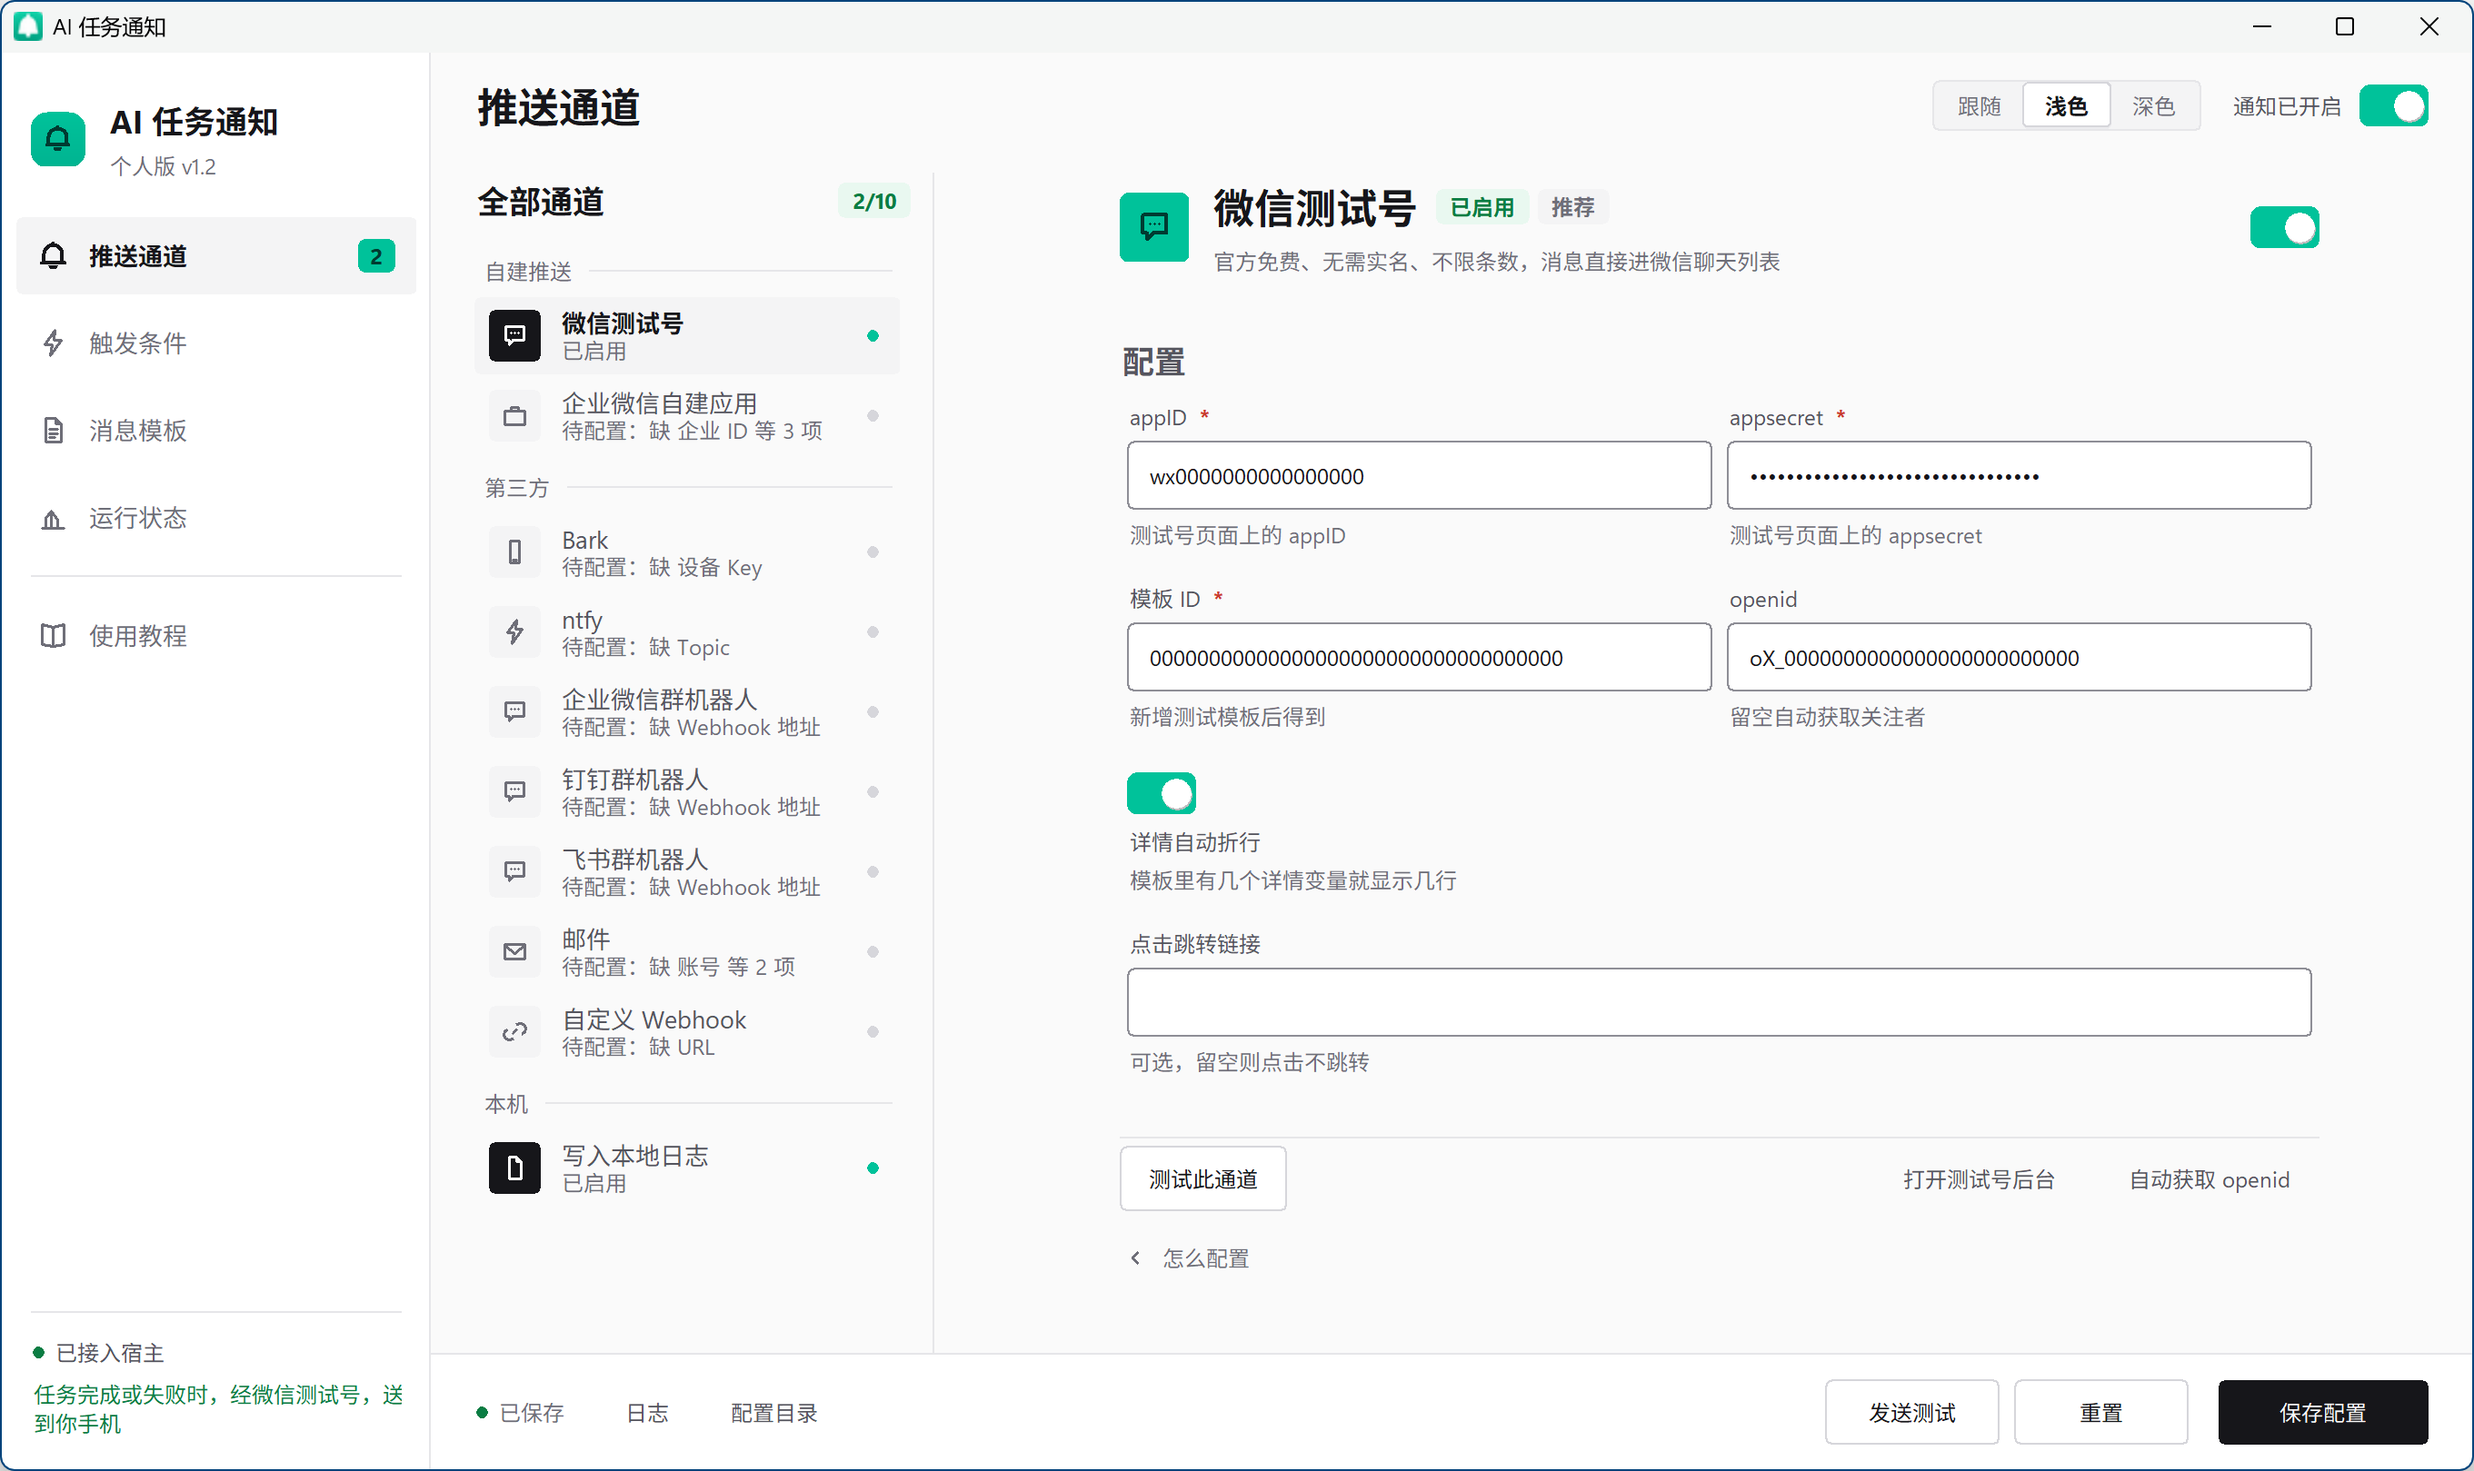
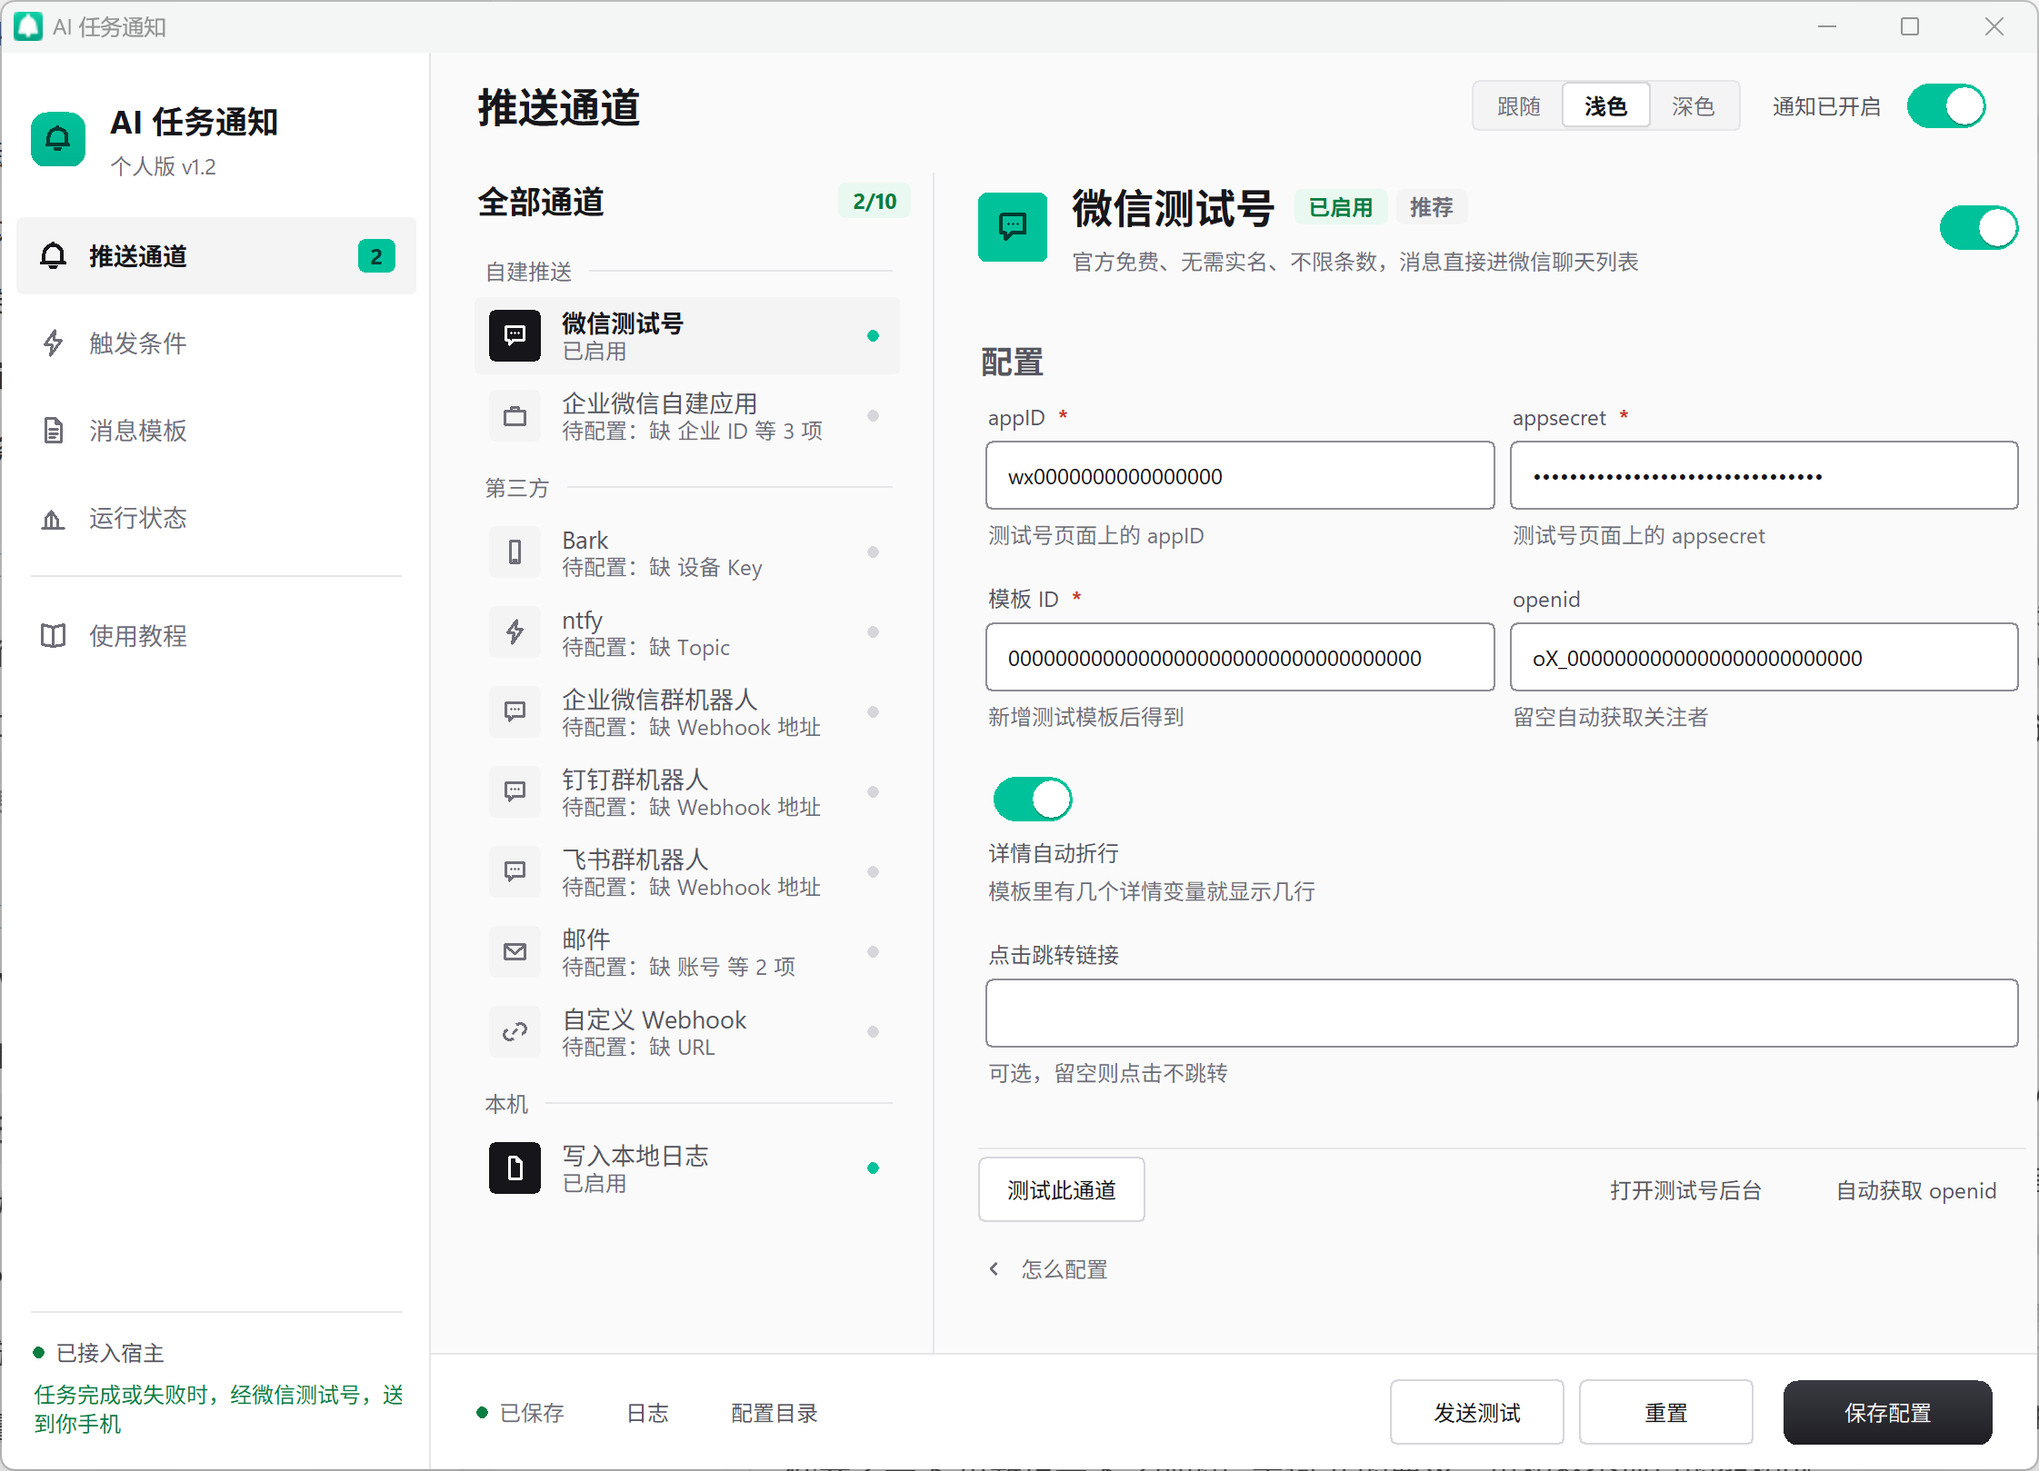
docs: 补 <Configure> 自激的实测与启动耗时构成；开关选型写进 3.3
- perf.md 新增 4.4（自激闭环 + 两处修法 + 75× 数据）、
  第六节（启动时间轴逐段、import ui 内部构成、为什么别的应用更快、优化方向表）
- design-redesign.md 新增 3.3（为什么 round_rect 画不出半圆、四家设计体系的
  开关比例对照、选 Tailwind 44×24 的理由、三处配套改动）
- 交互表 / 动效表 / 组件表同步为 160ms ease_out_expo
- 重出 4 张含开关的截图（triggers / channels × 浅深）

diff --git a/docs/design-redesign.md b/docs/design-redesign.md
@@ -57,7 +57,7 @@
 | 组件 | v1 | v2 |
 |---|---|---|
 | Button | 平面圆角 + hover 只变色 | 3 变体 × 4 态 + loading；primary hover 出现自上而下渐变（≤36px 高）；按下整体下移 1px |
-| Switch | 圆角矩形 + 圆形滑块，颜色写死两档 | 轨道色 `mix()` 插值 + 滑块位移 90ms `ease_out_cubic`；深色下轨道补 1px 内描边 |
+| Switch | 圆角矩形 + 圆形滑块，颜色写死两档 | 44×24 真半圆胶囊（`capsule_border`）+ 轨道色 `mix()` 插值 + 滑块 160ms `ease_out_expo`；关态轨道 `track_off` + `border_control` 描边 |
 | 输入框 | 只有聚焦/不聚焦两态 | 三态：默认（`border_control`）/ 聚焦（`border_focus` + 2px 焦点环）/ 错误（`danger` + 一行红字说明） |
 
 **结论：过。**
@@ -181,7 +181,7 @@ v2 把绿收窄到三种语义，别处一律中性色：
 |---|---|---|---|
 | `Button` | 3 变体（primary/secondary/ghost），hover 只变色 | 4 变体（+danger），4 态 + loading | primary hover 渐变；按下 `dy=S(1)`；高度硬限制 `h <= DIM.BTN_H` |
 | `Field` | 2 态 | 3 态 + `set_error()/clear_error()` | 默认态用 `border_control`（3.11:1）而不是 `border`；错误态带一行说明 |
-| `Switch` | 颜色写死两档 | 轨道 `mix()` 插值 + 滑块位移 | 深色补 1px 内描边；时长 `MOTION.quick` |
+| `Switch` | 颜色写死两档，形状是 `round_rect(r=h/2)` 磨出来的切角矩形 | 44×24 胶囊：`create_oval` 真半圆 + 矩形拼合；滑块 20px、行程 20px | 关态轨道 `track_off`（`#d4d4d9`/`#3d3d46`）+ `border_control` 描边；`MOTION.base` + `ease_out_expo`；画布四周留 4px 装焦点环 |
 | `Segmented` | 独立实现 | 与 Button 同一套描边/圆角 | 选中胶囊 = `bg_subtle` + 加粗 |
 | `NavItem` | 文字 + 左侧 2px 指示条 | 16px 图标 + 文字 + 浅底胶囊 | **删掉指示条**（1.3 要求）；行高 44 |
 | `ListRow` | 46px，带指示条 | 44px，徽章用 `ICON_BOX` | 选中靠浅底 + 文字转粗 |
@@ -204,9 +204,48 @@ v2 把绿收窄到三种语义，别处一律中性色：
 | `divider()` | 纯 Frame 的 1px 线 | 不用 Canvas（省一个 Tk 对象） |
 | `measure()` | 字体测量 | 带 `(font, text)` 缓存，上限 8192 条 |
 | `elide()` | 超宽省略 | 先测全长，超宽才二分 |
+| `capsule()` / `capsule_border()` | 真半圆胶囊（实心 / 带描边） | 只在 `r = 高度/2` 时用；`fill=""` 不许用 `capsule_border` |
+| `capsule_ring()` | 空心胶囊描边 | 焦点环专用，用 `create_arc` 半圆而不是整圆 |
 
 渐变面积闸门写成会抛错的硬限制，而不是一句「请注意不要滥用」——
 违规的写法在开发期就炸，活不到用户面前。
+
+### 3.3 开关：为什么必须换绘制方式
+
+上一版开关被评价为「方块样式」，根因不是配色，是**几何**。
+
+`round_rect()` 用 `create_polygon(..., smooth=True)` 画圆角。`smooth=True` 的
+原理是把折点按贝塞尔曲线磨圆，**顶点始终落在原矩形的边上**。当 `r = 高度/2`
+（胶囊的充要条件）时，磨出来的不是半圆，是一个「四角被斜切的矩形」——
+在小尺寸（38×22）上，斜切占比极大，看上去就是个方块。
+
+Tk 没有原生圆角，所以胶囊只能拼：**中间一个矩形 + 两端各一个整圆，圆被矩形
+盖住一半**。三段都用 `fill` 当 `outline` 描一圈，相邻图元之间才不会露 1px 底色缝。
+
+选型参考（都是同一形态，差别只在比例与描边）：
+
+| 设计体系 | 尺寸 | 比例 | 滑块 | 关态处理 |
+|---|---|---|---|---|
+| Material 3 | 52×32 | 1.63 | 24（0.75h） | `surfaceVariant` 填充 + `outline` 2px 描边 |
+| iOS / Human Interface | 51×31 | 1.65 | 27（0.87h） | `#E9E9EA` 填充，无描边 |
+| Tailwind UI | 44×24 | 1.83 | 20（0.83h） | `bg-gray-200` 填充，无描边 |
+| **本项目** | **44×24** | **1.83** | **20（0.83h）** | `track_off` 填充 + `border_control` 1px 描边 |
+
+取 Tailwind 的比例：44 宽在 52px 行高里不显拥挤，20px 行程足以让「开/关」
+一眼可辨（原 38 宽只有 16px 行程）。关态**保留描边**而不是纯填充——iOS 那种
+无描边的浅灰在 `#fafafa` 底上只有 1.4:1，不满足 WCAG 1.4.11 的 3:1 控件边界
+要求；Material 3 的描边方案恰好同时解决观感与合规。
+
+三处配套改动：
+
+1. **画布四周留 4px**：轨道内缩 4px，焦点环外扩 2px 正好装下。原来画布等于
+   轨道尺寸，焦点环会被裁掉一半——这是自绘控件「焦点看不见」的典型成因。
+2. **焦点环改 `capsule_ring`**：胶囊宽 44 高 24，两端整圆直径 24 加起来 48 > 44，
+   画整圆会在中间叠成「8」字。改用 `create_arc(style="arc")` 只画左右各半圆，
+   上下补两条直线。
+3. **缓动从 `ease_out_back` 换成 `ease_out_expo`，90ms → 160ms**：`back` 的末端
+   过冲会让滑块撞到端点再弹回来，读起来像「没对准」；开关是状态切换，不是
+   有惯性的物体。`expo` 前段快、尾段干净，160ms 内完成且无回弹。
 
 ---
 
@@ -454,7 +493,7 @@ v2 把绿收窄到三种语义，别处一律中性色：
 | 1 | 启动 | 见第五节时间轴 | `Splash` + `_boot`，实测 2.0s 交接 | ✓ |
 | 2 | 切页 | 8px 上移就位 160ms `ease_out_expo`，无逐张动画 | `_enter_anim` 滑 `page_sc` 或 `ch_form_sc`；`_collect_cards`/`_enter_card` 已删 | ✓ 切页 1.0–14.1ms（预算 100） |
 | 3 | 通道选中 | 底色 90ms + 文字转粗，无左侧指示条 | `ListRow`：`MOTION.quick` 底色过渡，选中 `bold`；指示条删除 | ✓ 灰度截图对比 |
-| 4 | 开关拨动 | 轨道色插值 + 滑块 90ms `ease_out_cubic`，不许瞬跳 | `Switch.animate` 用 `mix()` 逐帧插值 | ✓ `audit` C1/C2 |
+| 4 | 开关拨动 | 轨道色插值 + 滑块 160ms `ease_out_expo`，不许瞬跳 | `Switch.animate` 用 `mix()` 逐帧插值；形状走 `capsule_border`（真半圆） | ✓ `audit` C1/C2 |
 | 5 | 输入聚焦 | 描边 `border → border_control`，90ms | `Field` 三态；聚焦同时画 2px 焦点环 | ✓ 目视 + A2 |
 | 6 | 保存 | loading → 成功 Toast / 失败内联红字 | `Button.loading=True` 换文案；`Field.set_error()` | ✓ 手点两态 |
 | 7 | 发送测试 | loading + 禁用；期间窗口可拖动、可切页 | 后台线程 + 主线程轮询 `q_check` | ✓ 停顿 25ms（阈值 120） |
@@ -476,7 +515,8 @@ v2 把绿收窄到三种语义，别处一律中性色：
 | 场景 | 时长 | 缓动 | 代码位置 |
 |---|---|---|---|
 | 悬停 / 焦点 | `MOTION.quick` 90 | 线性 | `Button._hv` / `NavItem` / `ListRow` |
-| 按下 / 开关 / 复选框 | `MOTION.quick` 90 | `ease_out_cubic` | `Switch.animate` |
+| 按下 / 复选框 | `MOTION.quick` 90 | `ease_out_cubic` | `Button` / `Checkbox` |
+| 开关拨动 | `MOTION.base` 160 | `ease_out_expo` | `Switch.animate`（见 3.7） |
 | 切页整页就位 | `MOTION.base` 160 | `ease_out_expo` | `_enter_anim` → `slide_in` |
 | 折叠展开 | `MOTION.base` 160 | `ease_out_cubic` | `Collapsible._animate_height` |
 | Toast 滑入 | `MOTION.base` 160 | `ease_out_expo` | `Toast._place(dx)` |

diff --git a/docs/perf.md b/docs/perf.md
@@ -250,6 +250,102 @@ realized）。在「启动层把 5 页全部预建好、再一次性 `deiconify`
 不需要那一句。同一个坑在 `Splash._handoff()` 里也踩过一次（在 `after` 回调里
 `destroy()` 掉自己所在的窗口），改法是**把销毁延后 120ms 交给 root**。
 
+### 4.4 真正的「无响应」元凶：未映射页面的 `<Configure>` 自激
+
+4.3 修掉的是**启动期**的死锁。但交接完成、界面已经可见之后，仍然有一阵
+「点哪都没反应」的卡顿，而且是周期性的。用 `<Configure>` 计数器抓到了：
+
+| 场景 | 3 秒内 `<Configure>` 次数 | 折算 |
+|---|---|---|
+| 预热关（`--no-warm`，只建首屏） | 267 | 89 /s |
+| 预热开（5 页全预建） | **25243** | **8414 /s** |
+
+TOP 1 是触发条件页里 `ScrollFrame` 的 `inner`，占 97.6%。逐次打印它的
+`(w, h, lastw, cvw, mapped)`：
+
+```
+(1, 414, -1, 1, 0)
+(1, 794, -1, 1, 0)
+(1, 2992, -1, 1, 0)
+...
+```
+
+`mapped=0`（页面在缓存里，没 pack 出来）、`cvw=1`（canvas 还没被赋予宽度）、
+`h` 每轮都在变（101 → 2222 → 3250），算出来的 `scrollregion` 是 `0 0 1 2222`。
+
+**闭环是这样形成的**：设 `scrollregion` → canvas 重新摆放那个 window item →
+`inner` 收到新的 `<Configure>` → 又算一次 `scrollregion`。因为 `h` 每轮都不同，
+「值没变就不写」的幂等判断挡不住它，循环永不收敛。它不抛异常、不死循环，
+只是把 Tk 的事件队列塞满——用户的点击、拖动、窗口消息全排在后面，
+Windows 等不到消息泵响应，就判定「窗口无响应」。
+
+两处改动（缺一不可）：
+
+1. **预建时给确定宽度**（`ui.prebuild`）：`frame.place(x=-20000, width=cw)`，
+   `cw` 取内容区实际宽度，取不到就按 `WIN_W - SIDEBAR_W` 兜底。`place` 不参与
+   pack 布局，不影响当前页；建完立刻 `place_forget`。注意 `place` 的宽度是
+   idle 时才下发的，所以 `place` 之后要补一次 `update_idletasks()`——它只跑空闲
+   任务、**不派发 `<Configure>`**，不会把 4.3 那个坑重新引出来。
+2. **`_on_inner` 幂等 + 未映射直接返回**：`cv` 没映射或宽度 ≤1 时不做布局计算；
+   其余情况用 `(cw, h)` 与缓存比对，相同就不写 `scrollregion`。
+
+结果：**25243 → 335（75×）**，`_on_inner` 从每秒数千次降到 28 次（6 个
+ScrollFrame，每个约 4–9 次）。
+
+---
+
+## 六、启动耗时构成与优化方向
+
+### 6.1 实测时间轴（冷启动，250% DPI）
+
+| 绝对时刻 | 阶段 | 本段耗时 |
+|---|---|---|
+| 0 ms | 进程起 | — |
+| 31 ms | `import tkinter` | 31 ms |
+| 121 ms | `import wbn.config/theme/splash` | 90 ms |
+| 274 ms | `import ui`（含 channels/pipeline/render/store） | **153 ms** |
+| 411 ms | `tk.Tk()` | **137 ms** |
+| 463 ms | `Splash()` 构造（建 Toplevel + 画渐变） | 43 ms |
+| 649 ms | `splash.show()` + `update()` —— **启动层真正上屏** | 186 ms |
+| 731 ms | `App(root)` 建侧栏/顶栏/首屏（同步阻塞） | 82 ms |
+| 1442 ms | 4 页预热完成，交接 | 711 ms |
+
+`import ui` 的内部构成（`-X importtime`，累计）：`wbn.channels` 98ms
+（其中 `smtplib` 47ms）、`wbn.splash` 46ms、`wbn.widgets` 44ms、`wbn.theme` 27ms。
+另外环境自带的 `site` + `sitecustomize` 固定吃掉 128ms，**这部分不归我们管**。
+
+### 6.2 为什么别的应用「开机响应更快」
+
+不是它们启动更快，而是**它们不会让窗口在没画完的时候出现**，而且不需要解释器：
+
+1. **编译型 / 预编译**：Rust、Go、C++ 的托盘程序启动里没有「import 一个模块
+   要 150ms」这一项。Python 的 `import` 是**执行模块顶层代码**，不是读表。
+2. **先上屏，再干活**：主流做法是 100–200ms 内先 paint 一帧（哪怕只是骨架），
+   重活丢后台线程 / idle。我们的 0–649ms 之间屏幕上是空的（root 处于
+   `withdraw`），用户看到的是「双击了，没反应」。
+3. **持久化进程**：微信、QQ 那类常驻托盘的程序，你点图标时进程本来就在，
+   只是 `deiconify`，所以是 0ms 级。
+4. **消息泵不被塞满**：Windows 的「无响应」判定看的是主线程 5 秒内有没有处理
+   消息。4.4 那个每秒 8000 次的 `<Configure>` 就是在喂它不处理的消息。
+
+一句话：**用户感知的「快」= 第一个可见帧的时间，不是总启动时间。**
+
+### 6.3 可行的优化方向（按性价比排序）
+
+| 优先级 | 方向 | 预期收益 | 风险 |
+|---|---|---|---|
+| 已做 | 修 `<Configure>` 自激 | 消除「无响应」，75× | 无 |
+| 已做 | `smtplib` / `email.*` 延迟导入 | 15–20 ms | 无（只在发邮件时导入） |
+| 高 | **启动层提前到 `import ui` 之前**：`wbn.splash` 只依赖 tkinter，可以在 121ms 就上屏，而不是 649ms | 用户等待感 −400 ms（总时长不变） | 中：要拆 ui.py 的顶层导入 |
+| 中 | `wbn.channels` 里的 `urllib` 系列也延迟到发送时 | 30–40 ms | 低 |
+| 中 | 首屏只建可见区域，其余 `after_idle` 分批 | 首帧 −50 ms | 低，但会让布局抖动 |
+| 低 | 用 `-X frozen_modules=on` 或 PyInstaller 打包，把 import 变成内存映射 | 冷启动 −100 ms 级 | 打包体积 + 发布流程变化 |
+| 不建议 | 把预热改回「不预热」 | 启动 −711 ms，但首次进页要现场建 300–600 ms | 已实测：用户会更明显地感到卡 |
+
+「不建议」那一条要展开说：预热这 711ms 是**在启动层底下花的**，用户看不到；
+去掉它，省下的时间会在用户点「消息模板」时以 392ms 的空白还回来。所以路线 A
+（全量预热）是拿「启动层多停 0.7 秒」换「每次切页 1–10ms」，这笔账划算。
+
 ---
 
 ## 五、给 P1 重写的四条硬要求：落地情况
